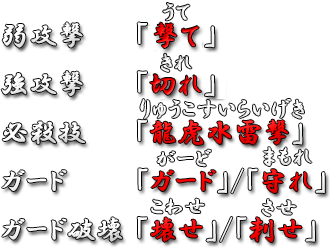
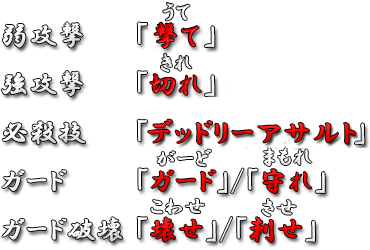
Game^3リリース用

diff --git a/Source/Game.cpp b/Source/Game.cpp
@@ -37,8 +37,8 @@
 #define アイリ_弱攻撃 U"UE"
 //「斬れ」
 #define アイリ_狂攻撃 U"IE"
-//TODO:考えろ
-#define アイリ_必殺技 U"O"
+//「デッドリーアサルト」
+#define アイリ_必殺技 U"EOIAAUO"
 //「連射」
 #define アイリ_特殊攻撃 U"EIA"
 //「刺せ」
@@ -107,10 +107,10 @@ player_flag(player_sum, true)
 		player_img.at(3).push_back(Texture{ Unicode::Widen("../images/game/3/destroy_guard.png") });
 	}
 	//コマンド画像
-	command_img.at(0) = Texture{ Unicode::Widen("../images/game/system/rei_command.png") };
-	command_img.at(1) = Texture{ Unicode::Widen("../images/game/system/yuuka_command.png") };
-	command_img.at(2) = Texture{ Unicode::Widen("../images/game/system/airi_command.png") };
-	command_img.at(3) = Texture{ Unicode::Widen("../images/game/system/no0_command.png") };
+	command_img.at(0) = Texture{ Unicode::Widen("../images/game/system/command_rei.png") };
+	command_img.at(1) = Texture{ Unicode::Widen("../images/game/system/command_yuuka.png") };
+	command_img.at(2) = Texture{ Unicode::Widen("../images/game/system/command_airi.png") };
+	command_img.at(3) = Texture{ Unicode::Widen("../images/game/system/command_no0.png") };
 
 	//録音開始!
 #ifndef debug_voice

diff --git a/Source/Main.cpp b/Source/Main.cpp
@@ -27,7 +27,7 @@ void Main() {
 	
 
 	//XXX:debug用
-	manager.init(State::Game);
+	//manager.init(State::Game);
 
 	while (System::Update() && manager.update()) {};
 }

diff --git a/Source/common.hpp b/Source/common.hpp
@@ -6,7 +6,7 @@
 #define M_PI 3.14159265358979323846
 
 //XXX:Debug用
-#define debug_voice
+//#define debug_voice
 
 // シーンの名前
 enum class State

diff --git a/Source/Game.hpp b/Source/Game.hpp
@@ -6,7 +6,7 @@
 #include <string>
 #include <algorithm>
 
-#define debug_mode
+//#define debug_mode
 
 struct Player {
 	//各種変数
